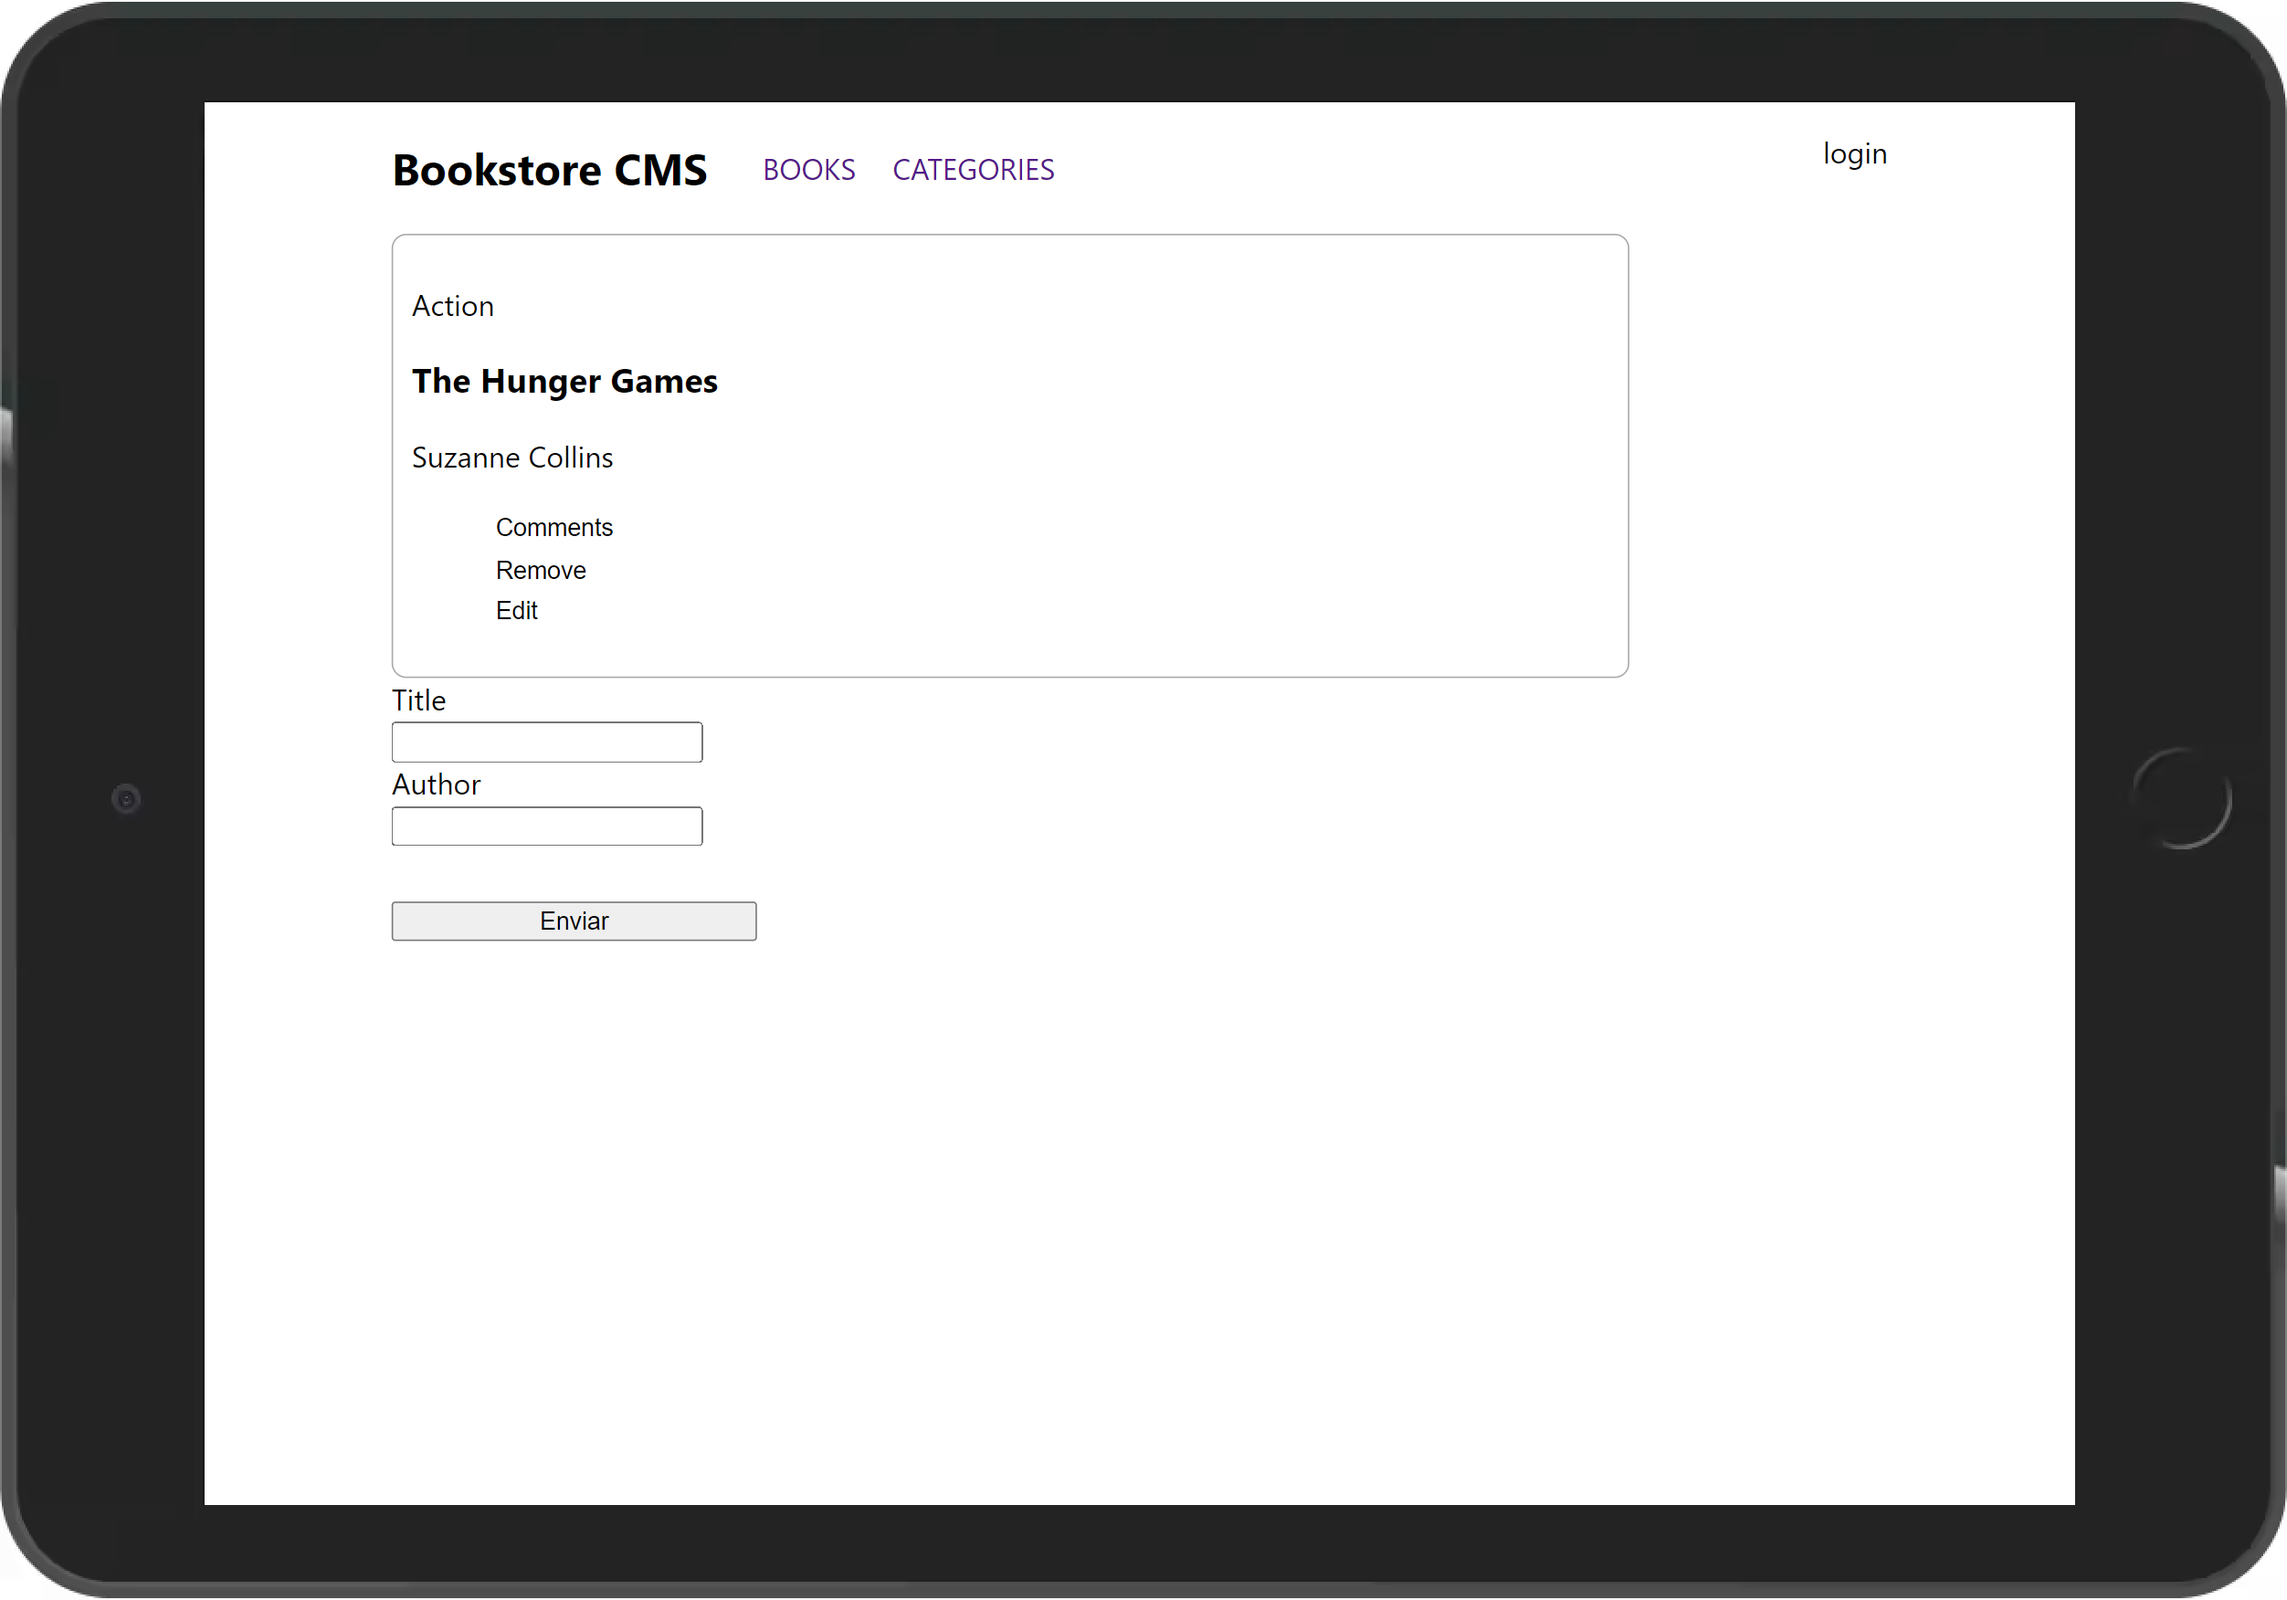
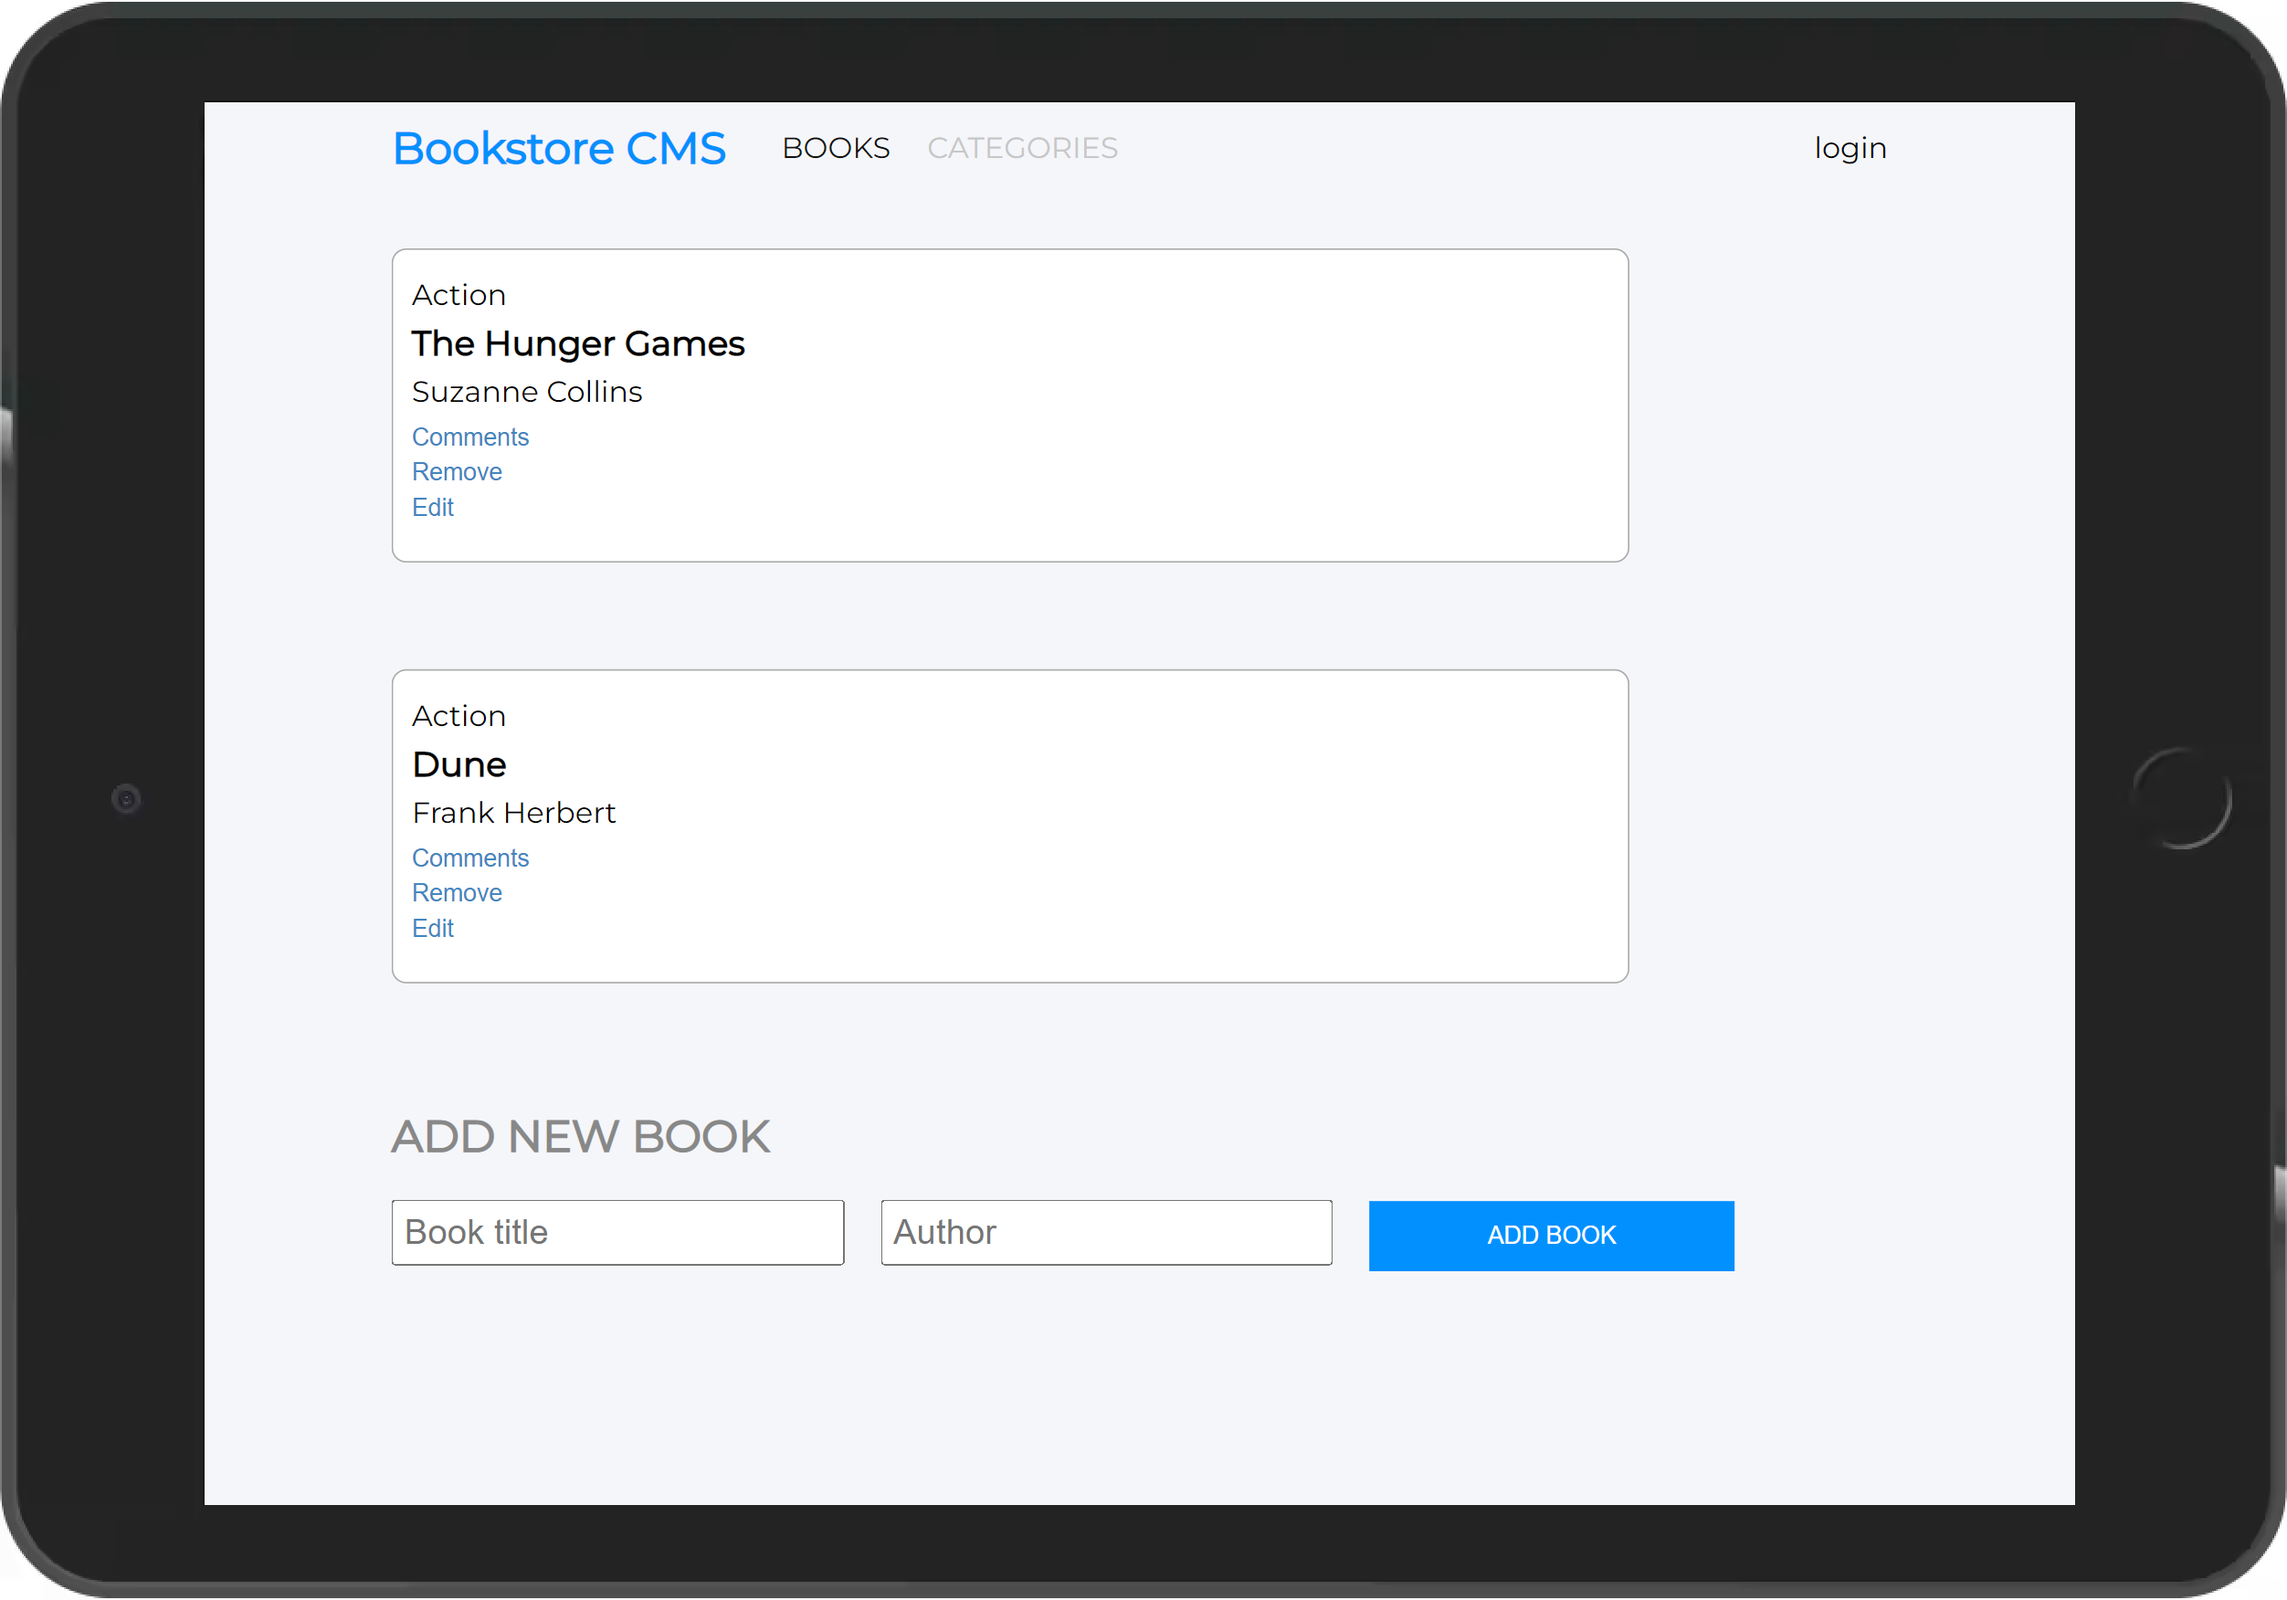
Update readme file
Give some styling for mobile devices

modified:   desktop.png
modified:   mobile.png
modified:   src/components/Input-Form/Input-Form.css
modified:   src/components/NavBar/NavBar.css
modified:   tablet.png

diff --git a/src/components/Input-Form/Input-Form.css b/src/components/Input-Form/Input-Form.css
@@ -20,3 +20,20 @@
   color: white;
   border: none;
 }
+
+@media (max-width: 360px) {
+  .input-form {
+    flex-direction: column;
+  }
+
+  .input-form button {
+    margin-top: 5px;
+  }
+
+  .input-form input {
+    font-size: 1.1rem;
+    margin-right: 20px;
+    margin-top: 5px;
+    padding: 5px;
+  }
+}

diff --git a/src/components/NavBar/NavBar.css b/src/components/NavBar/NavBar.css
@@ -33,3 +33,10 @@
   margin-right: 20px;
   color: #0290ff;
 }
+
+@media (max-width: 360px) {
+  .left {
+    flex: 1;
+    flex-direction: column;
+  }
+}
